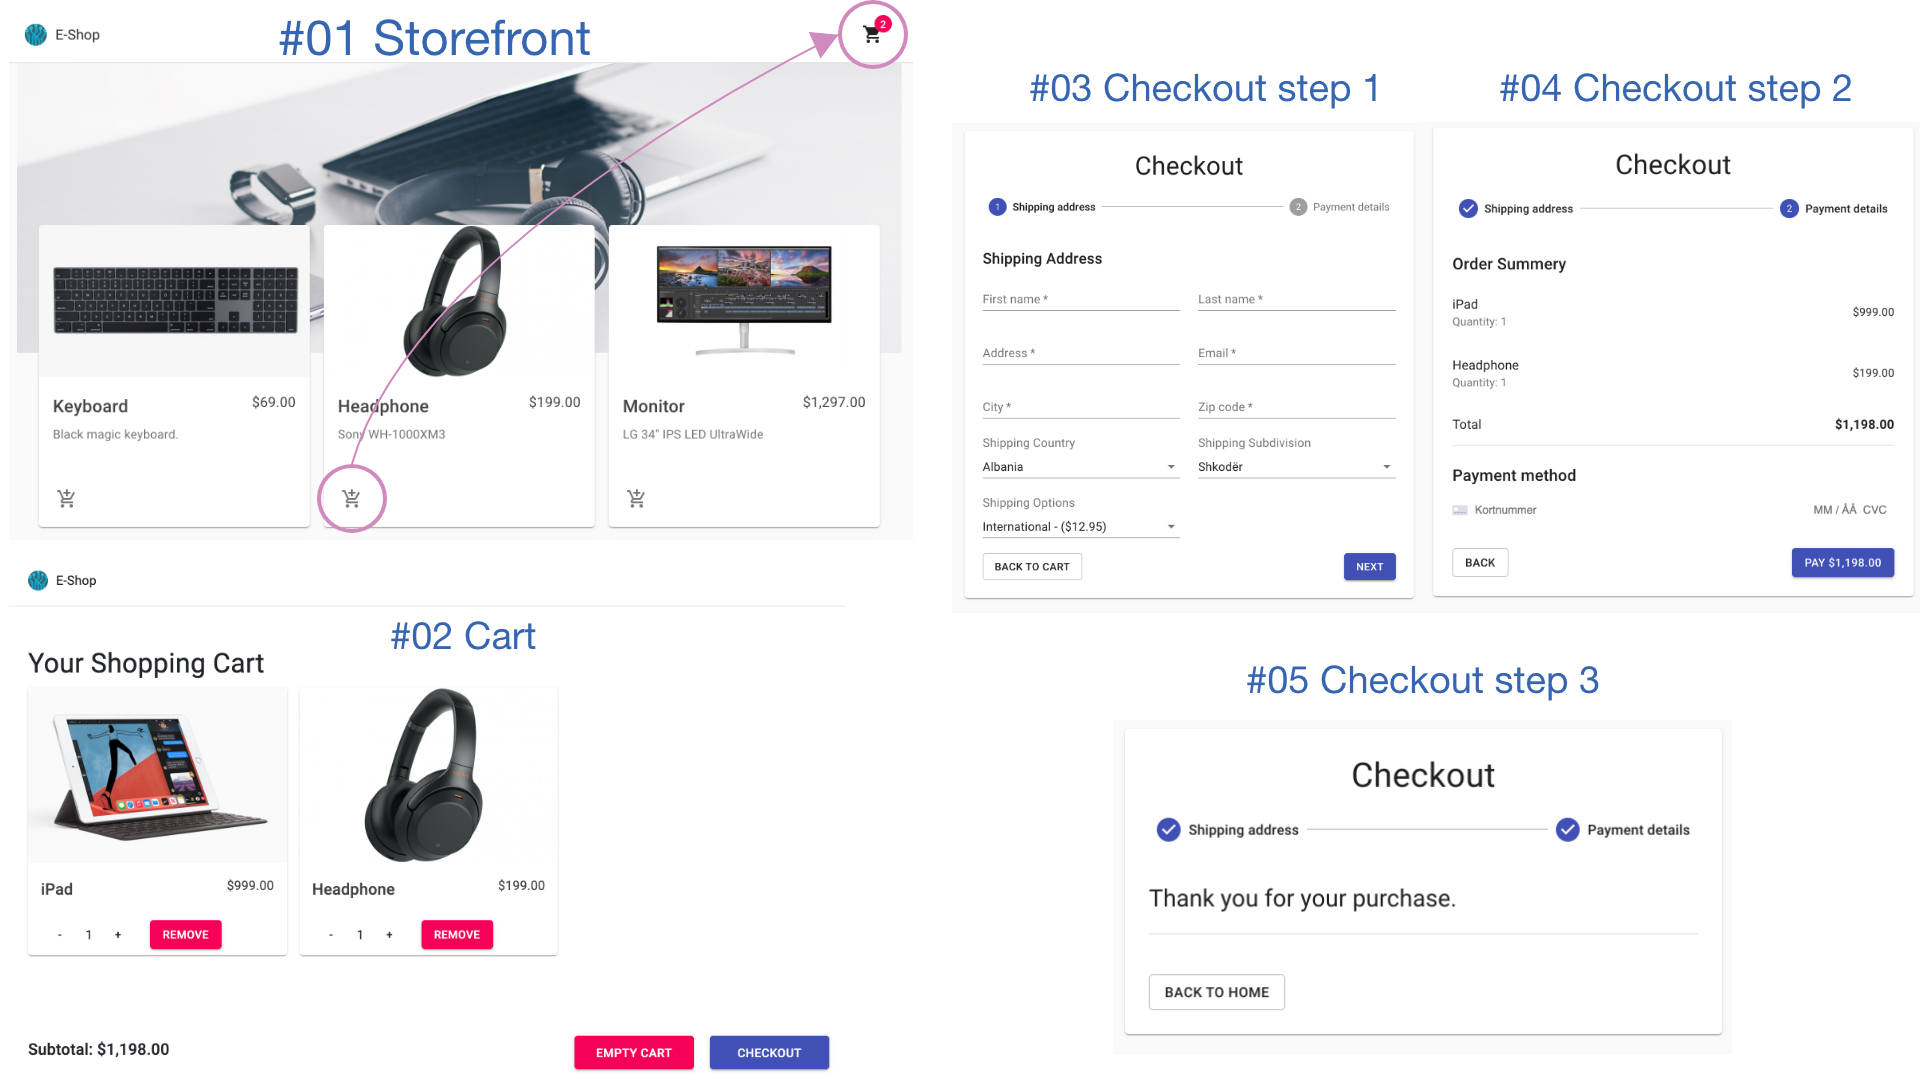
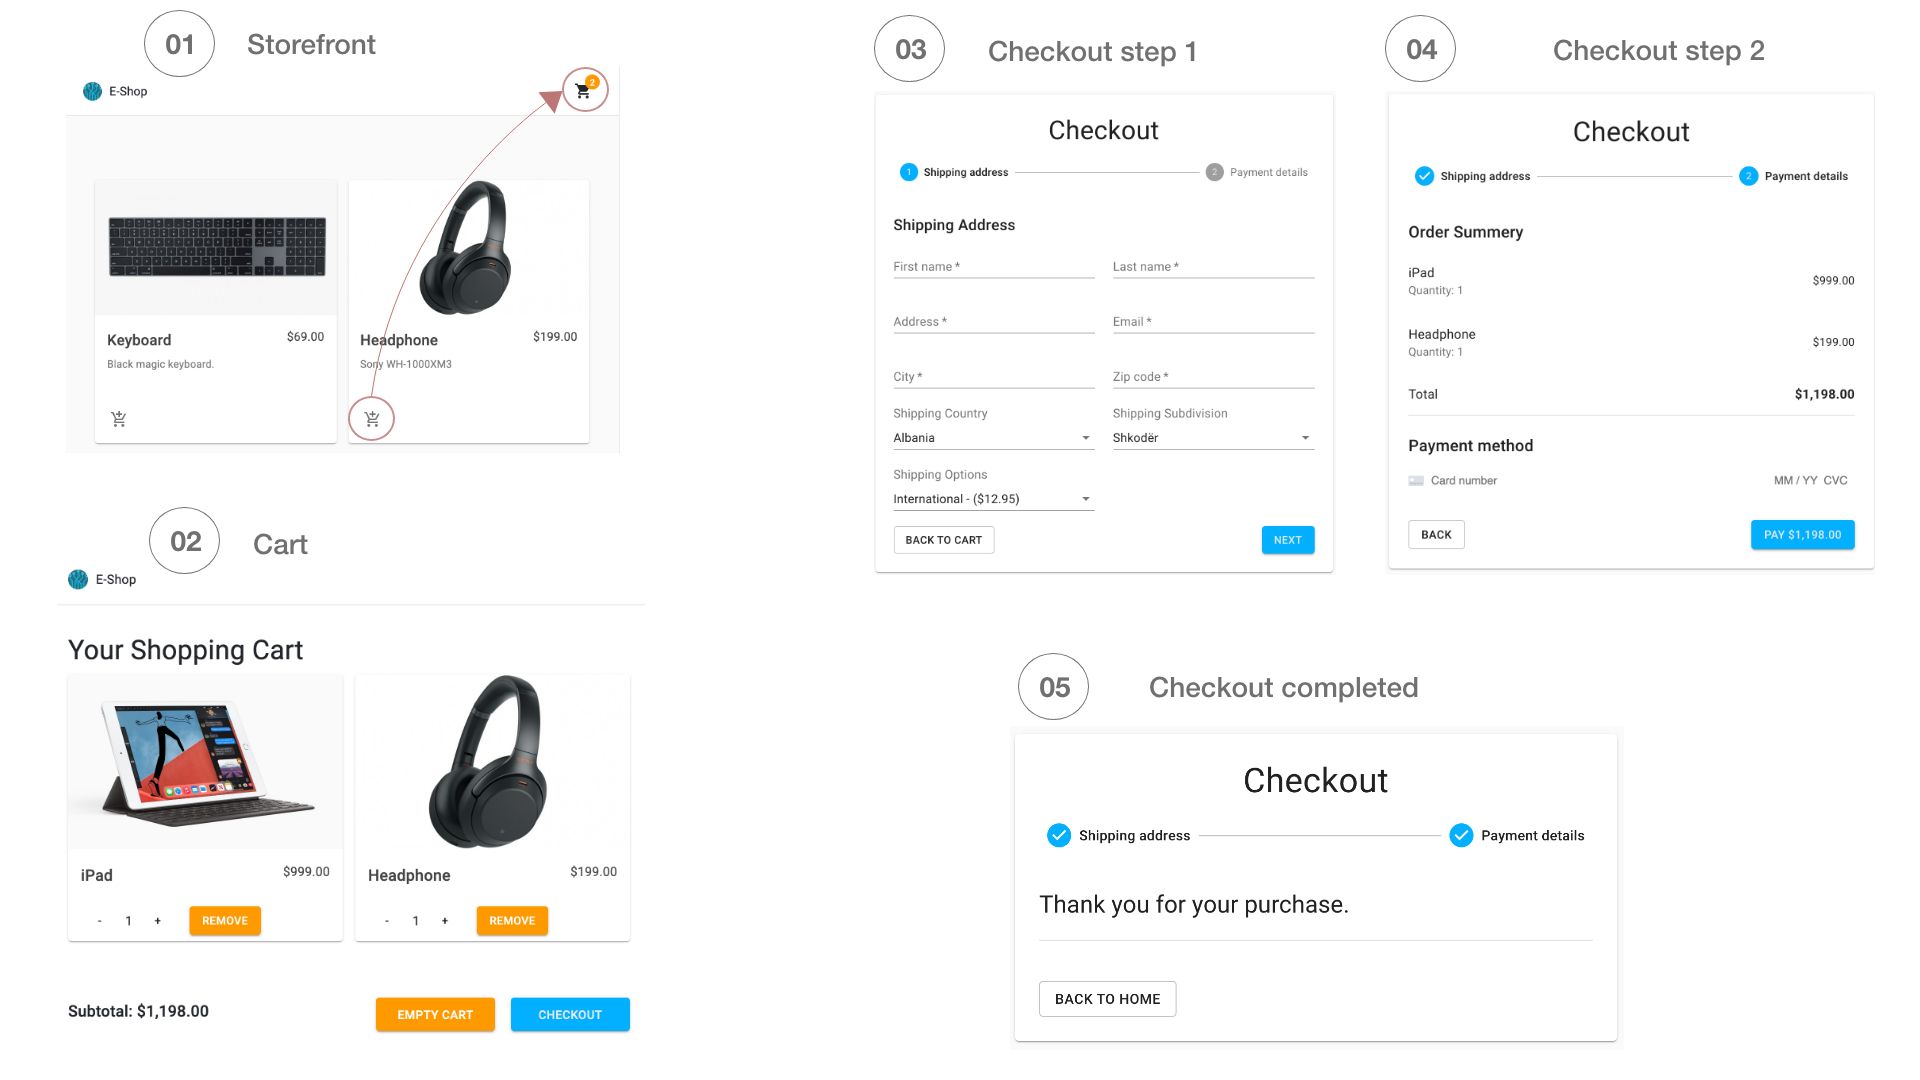
Updated color palette

diff --git a/src/theme.js b/src/theme.js
@@ -1,0 +1,18 @@
+import { createMuiTheme } from "@material-ui/core/styles";
+
+export default createMuiTheme({
+  palette: {
+    primary: {
+      light: "#33bfff",
+      main: "#00b0ff",
+      dark: "#007bb2",
+      contrastText: "#e8eaf6",
+    },
+    secondary: {
+      light: "#ffac33",
+      main: "#ff9800",
+      dark: "#b26a00",
+      contrastText: "#fff",
+    },
+  },
+});

diff --git a/src/index.js b/src/index.js
@@ -1,11 +1,14 @@
 import React from "react";
 import ReactDOM from "react-dom";
 import App from "./App";
+
+import { ThemeProvider } from "@material-ui/core";
+import theme from "./theme";
 const root = document.getElementById("root");
 
 ReactDOM.render(
-  <React.StrictMode>
+  <ThemeProvider theme={theme}>
     <App />
-  </React.StrictMode>,
+  </ThemeProvider>,
   root
 );

diff --git a/src/components/Cart/Cart.jsx b/src/components/Cart/Cart.jsx
@@ -27,7 +27,7 @@ const Cart = ({
     <>
       <Grid container spacing={2}>
         {cart.line_items.map((item) => (
-          <Grid item xs={12} sm={4} key={item.id}>
+          <Grid item xs={12} sm={6} md={4} key={item.id}>
             <CartItem
               item={item}
               onUpdateCartQty={handleUpdateCartQty}

diff --git a/src/components/Cart/styles.js b/src/components/Cart/styles.js
@@ -13,6 +13,9 @@ export default makeStyles((theme) => ({
     [theme.breakpoints.up("xs")]: {
       marginRight: "20px",
     },
+    hover: {
+      backgroundColor: "red",
+    },
   },
   checkoutButton: {
     minWidth: "150px",

diff --git a/README.md b/README.md
@@ -13,4 +13,4 @@ A simple e-commerce website with commerce.js API integrated and dummy products d
 
 ## Screenshots
 
-![Screenshot](./public/images/Screenshot.jpg)
+![Screenshot](./public/images/screenshot.jpg)
